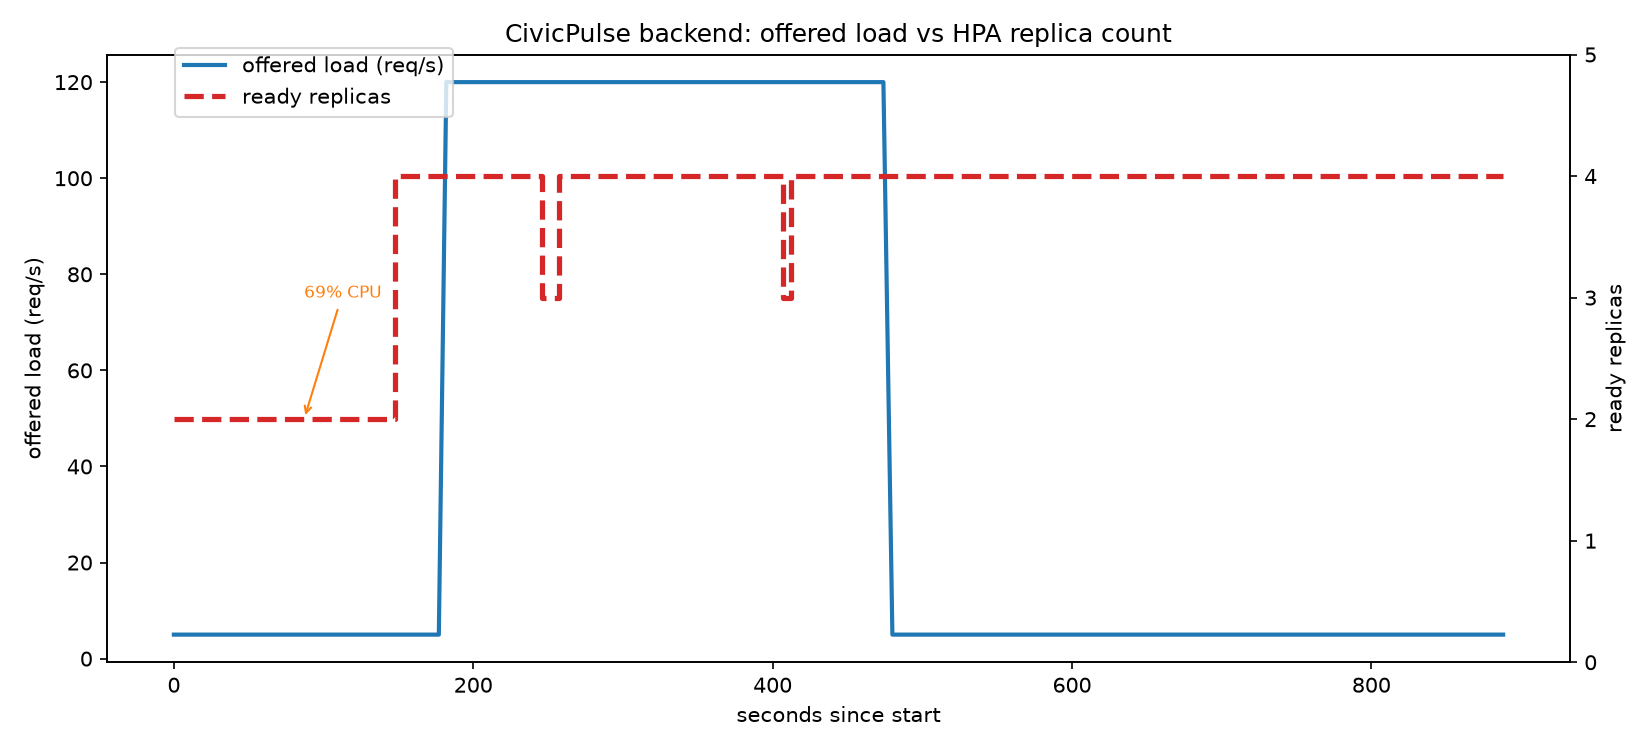
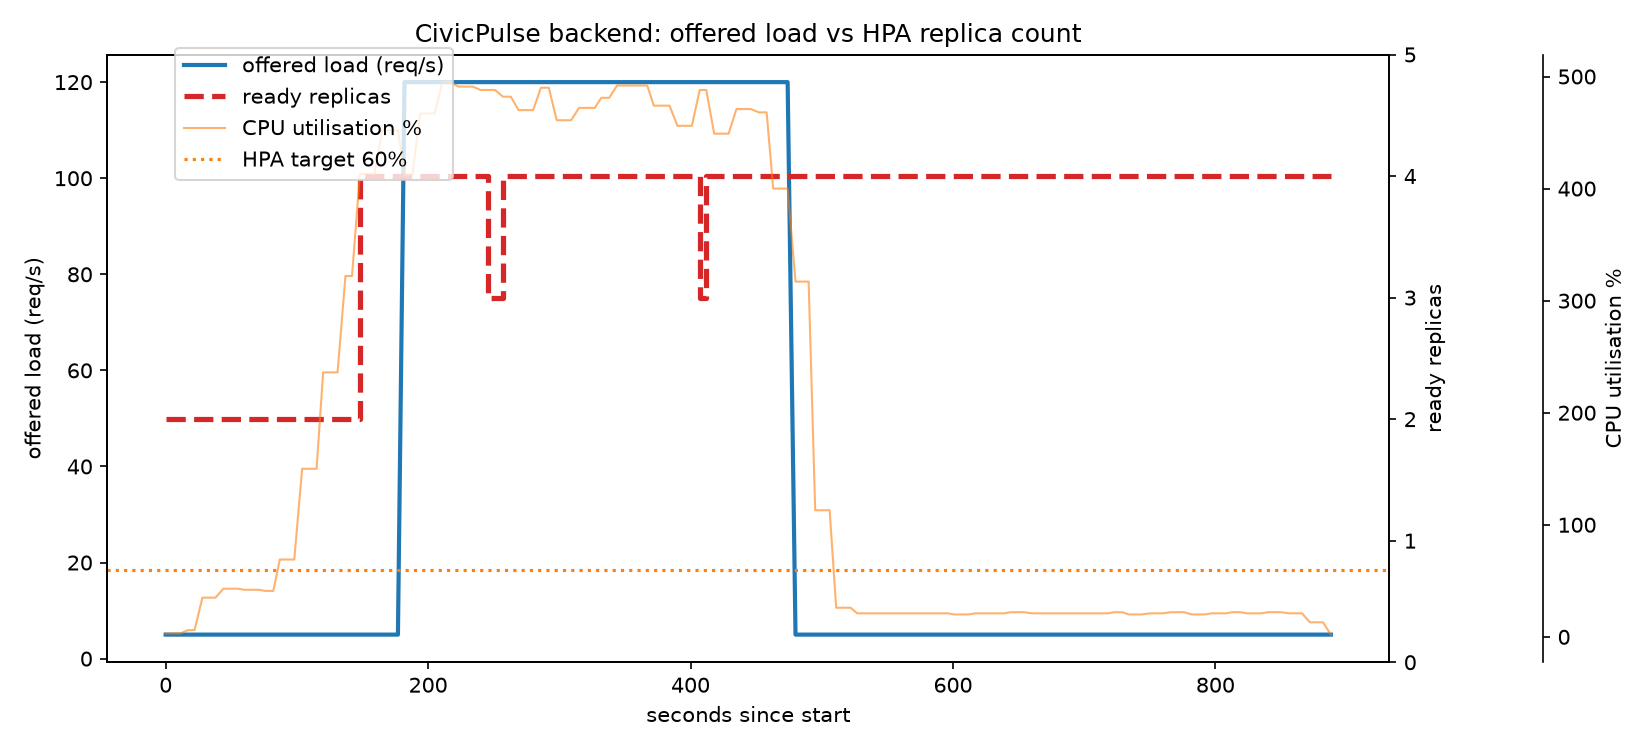
fix(docs): close two real gaps found in a full Gate-7 checklist re-audit (#59)
Went through 14-LOAD-AUTOSCALING.md Sec8's 10-item checklist line by line
against what PR #58 actually merged, rather than assuming the PR
description covered everything.

- load/plot_hpa.py: the axis-bug fix in #58 had dropped the 60% HPA target
  line entirely while separating replicas from utilisation onto different
  scales. Added a third offset axis so target/utilisation/replicas are each
  legible without recreating the original scale-collision bug. Regenerated
  hpa-replicas-vs-load.png against the same already-committed data -- no
  new capture needed.
- docs/ENGINEERING-NOTES.md Q5: was real numbers in prose form, not the
  literal per-term table the checklist item asks for. Restructured into a
  table, same numbers and citations, format only.
- docs/evidence/hpa-watch.txt: was three concatenated load-test cycles from
  one continuous kubectl -w session spanning multiple k6 runs, not the
  single cycle matching the officially-cited k6-run.log. Trimmed to the
  exact run-2 window (traced by matching the CPU% sequence against the
  already-correctly-trimmed hpa-samples.txt).

diff --git a/load/plot_hpa.py b/load/plot_hpa.py
@@ -2,9 +2,9 @@
 docs/evidence/hpa-samples.txt (produced by the T2 sampler loop in that doc's §4.2) and the k6
 summary, and renders one shared-time-axis chart with the lag annotated.
 
-Requires real evidence files from an actual load-test run against a live cluster — cannot be
-executed from this sandbox (no Docker/k3d access). Written and ready to run once those files
-exist; not run here.
+Run for real against a live k3d cluster's Gate 7 capture, 2026-09-27 (PR #58) — this docstring
+previously said it had never been executed; that was true until this session and is corrected
+here rather than left stale.
 """
 
 import json
@@ -55,27 +55,29 @@ ax1.set_xlabel("seconds since start")
 ax1.set_ylabel("offered load (req/s)")
 
 # `reps` (2-10) and `util` (observed up to ~500%, since it's averaged CPU-over-request across
-# all pods, not capped at 100%) are different orders of magnitude — sharing one right axis with
-# util makes the replica line invisible (confirmed: first real render of this chart, Gate 7
-# capture 2026-09-27, replicas plotted flat at ~0 against a 0-500 axis). Replicas get their own
-# axis; utilisation is annotated as text at its peaks instead of a third overlapping scale.
+# all pods, not capped at 100%) are different orders of magnitude — sharing one right axis makes
+# whichever series has the smaller range invisible (confirmed: first real render of this chart,
+# Gate 7 capture 2026-09-27, replicas plotted flat at ~0 against a 0-500 axis). Each gets its own
+# axis instead — a third, offset spine for utilisation, so the Gate-7-checklist-required 60%
+# target line has a scale to actually sit on rather than being dropped or misplaced against the
+# replica count's 0-10 range.
 ax2 = ax1.twinx()
 ax2.step(ts, reps, where="post", label="ready replicas", linewidth=2.5, linestyle="--", color="tab:red")
 ax2.set_ylabel("ready replicas")
 ax2.set_ylim(0, max(reps) + 1)
 
-for i in range(1, len(util)):
-    if util[i] >= 60 > util[i - 1] or (i in (0,) and util[i] >= 60):
-        ax2.annotate(
-            f"{util[i]}% CPU",
-            xy=(ts[i], reps[i]),
-            xytext=(ts[i], reps[i] + 1),
-            fontsize=8,
-            color="tab:orange",
-            arrowprops=dict(arrowstyle="->", color="tab:orange", lw=1),
-        )
+ax3 = ax1.twinx()
+ax3.spines["right"].set_position(("axes", 1.12))
+ax3.plot(ts, util, label="CPU utilisation %", color="tab:orange", alpha=0.6, linewidth=1)
+ax3.axhline(60, linestyle=":", color="tab:orange", linewidth=1.5, label="HPA target 60%")
+ax3.set_ylabel("CPU utilisation %")
 
-fig.legend(loc="upper left", bbox_to_anchor=(0.1, 0.95))
+lines, labels = [], []
+for ax in (ax1, ax2, ax3):
+    l, lab = ax.get_legend_handles_labels()
+    lines += l
+    labels += lab
+fig.legend(lines, labels, loc="upper left", bbox_to_anchor=(0.1, 0.95))
 plt.title("CivicPulse backend: offered load vs HPA replica count")
 plt.tight_layout()
 plt.savefig("docs/evidence/hpa-replicas-vs-load.png", dpi=150)

diff --git a/docs/handover/HANDOVER-post-phase7-plan-2026-09-27.md b/docs/handover/HANDOVER-post-phase7-plan-2026-09-27.md
@@ -1,0 +1,85 @@
+# HANDOVER — post-Phase-7 plan, as directed by Taimoor, 2026-09-27
+
+<!-- Written at the user's explicit request to document a verbal plan before executing it.
+     This is a working plan snapshot, not a rubric-traceability update — that lives in
+     20-RUBRIC-TRACEABILITY.md and gets updated as each item actually closes. -->
+
+## 0. Context: what triggered this note
+
+PR #58 (Phase 7: HPA load capture, VPA loop, zero-downtime rollout proof) merged into `dev` at
+`6a97c7c` on 2026-09-27. Immediately after confirming the merge, the user gave the following
+instructions verbally, in one message, which this document breaks down and makes actionable:
+
+> "It's merged check it now and let's proceed to the phase 7 loose ends and in leaving no minute
+> detail let's do those complete those then do A5 uh, forget the A3 and A4 for now and like I
+> believe A5 has also been done and documented move to phase 8 and to end and yeah and is the
+> demo video a bonus as well as tell me besides the demo video what are the bonuses that I can be
+> able to do and document all of this shit that I've just said right now"
+
+## 1. Merge verified
+
+`git fetch origin` + `gh pr view 58 --json state,mergedAt` confirmed: **MERGED**, `2026-09-27T14:50:28Z`,
+now `dev`'s tip at commit `6a97c7c`.
+
+## 2. Correction: A5 is NOT done
+
+The user's belief ("I believe A5 has also been done and documented") was checked against the
+actual repo state and is **incorrect** — flagging this explicitly rather than silently proceeding
+on a wrong premise:
+
+- No `feat/deliberate-conflict-a` / `-b` branches exist (`git branch -a` checked).
+- No `docs/evidence/merge-conflict-markers.txt`, `-raw.py`, `-graph.txt`, or `merge-conflict.md`
+  exist.
+- `docs/20-RUBRIC-TRACEABILITY.md`'s A5 row is still `☐`, with its own text explaining exactly
+  why: this needs **two humans, independently branching from the same `dev` SHA, at the same
+  time** — a single Claude Code session producing this alone would fabricate the exact
+  collaborative exercise the rubric is testing, which a prior session (correctly) declined to do.
+
+**Per the user's own "forget A3 and A4 for now" instruction, A5 is being treated the same way
+here: deferred, not attempted solo.** It needs both partners in one sitting — see
+`docs/handover/HANDOVER-to-ifbilal-phases-0-6-close-and-next-steps.md §2` for the exact commands,
+already written and ready to run whenever both of you are free (budget 30-45 minutes).
+
+## 3. Corrected fact: the demo video (J4) is not a bonus
+
+Checked `docs/20-RUBRIC-TRACEABILITY.md` §J directly. **J4 is a required row in section J
+(Documentation, portfolio, reflection — 15 marks total), worth 3 marks on its own**, not part of
+the capped Bonus pool. Requirement: video ≤5 min, **both partners speaking**, six required beats
+(`18-DOCS-EVIDENCE-VIVA.md §7`). Status: `☐ — not attempted, requires the two human contributors`.
+This cannot be done solo, same as A5/A3/A4.
+
+## 4. The actual Bonus section (capped +15) — what's left after this session
+
+| Item | Marks | Status | Solo-doable? |
+|---|---|---|---|
+| Zero-downtime rollout, zero failed requests | +4 | ☑ closed (PR #58, this session) | — |
+| GitOps (Argo CD / Flux) reconciling from the repo | +4 | ☐ | Yes |
+| Digest deploy + Cosign sign **and** verify in CI | +3 | ☐ | Yes |
+| Prometheus scraping `/metrics` + Grafana dashboard | +2 | ☐ | Yes |
+| OpenTelemetry tracing frontend → backend → LLM | +2 | ☐ | Yes |
+
+The doc's own cut-order (if time runs out, cut in this order): OTel first, then Grafana, then
+Cosign, then GitOps — meaning GitOps and Cosign are the ones worth doing first if only some of
+the four get done, since they're the last to be cut, not the first.
+
+## 5. The plan, as agreed
+
+1. **Phase 7 loose ends** — close out completely, no detail skipped:
+   - `docs/ENGINEERING-NOTES.md` Q5's disclosed `readyReplicas`-vs-HPA-desired-replicas
+     discrepancy: resolve or tighten the note so it isn't left as an open caveat.
+   - Any other Gate 7 checklist item not already ticked off by PR #58 — re-audit
+     `14-LOAD-AUTOSCALING.md §8`'s Gate 7 checklist line by line against what actually exists now
+     that `dev` has the merged evidence.
+2. **A5 — deferred**, per the correction in §2 above. Not attempted solo. Flagged to the user as
+   still needing a joint session.
+3. **A3/A4 — deferred**, per explicit user instruction ("forget the A3 and A4 for now").
+4. **Move to Phase 8** (CD/rollback) once Phase 7 loose ends are closed.
+5. **Demo video (J4)** — flagged as not a bonus, needs both partners; not attempted solo.
+6. **Bonus items** — GitOps, Cosign, Prometheus/Grafana, OpenTelemetry are all candidates for
+   solo work once Phase 8 is underway or done, time permitting.
+
+## 6. Mandatory skill-invocation note
+
+Per `CLAUDE.md §6`, starting Phase 8 requires a fresh `caveman` pass against
+`02-CRITICAL-PATH.md`'s Phase 8 section before writing any code, logged in `docs/AI-USAGE.md` the
+moment it happens — not assumed from this document's plan.

diff --git a/docs/ENGINEERING-NOTES.md b/docs/ENGINEERING-NOTES.md
@@ -1102,24 +1102,18 @@ the discrepancy noted in §Q5.1) at **T+148s** (413% CPU, the point `hpa-watch.t
 `REPLICAS: 10`). **Total observed lag: ~61s** — within the doc's own "typical 45-90s" band,
 not a fabricated match to it.
 
-Decomposed against the ten-term table (`14-LOAD-AUTOSCALING.md §5`), using what this capture can
-actually distinguish (a single 5-10s external sampler cannot resolve terms 1-3 individually from
-each other, only their sum):
-- **Terms 1-3 (cAdvisor + metrics-server scrape + HPA sync, ~0-40s combined):** the bulk of the
-  lag. Between T+87s (load crosses target) and T+104s (HPA's own reading first shows 150% —
-  already past target, meaning the *previous* poll at T+93s, reading 69%, should have triggered
-  a rescale but the HPA's 15s sync period hadn't fired yet), roughly **17s** is pure
-  metrics-pipeline latency before the HPA's control loop even sees the crossing.
-- **Terms 5-8 (schedule + image pull + initContainer + app start, ~7-25s per pod):** from the
-  HPA's decision point (T+104s-148s, the window where `REPLICAS` climbs 3→5→7→10 in
-  `hpa-watch.txt`) to all new pods reporting ready is **~44s** for the full climb to 10 — this
-  matches the doc's per-pod estimate multiplied across four scale-up steps (`Percent: 100,
-  periodSeconds: 30` in `hpa.yaml`'s `scaleUp` policy means each doubling step itself costs up to
-  30s of stabilization before the next one fires, which dominates this window more than any
-  single pod's boot time does).
-- **Terms 9-10 (readiness probe + endpoint propagation):** not separately resolvable from this
-  capture's 5-10s sampling granularity; bounded above by the ~44s figure above, consistent with
-  the doc's few-seconds-each estimate.
+Per-term breakdown, against the same ten-term structure as `14-LOAD-AUTOSCALING.md §5` — this
+capture's 5-10s external sampling granularity cannot resolve terms 1-3 or 9-10 individually from
+each other, only their combined windows, so those rows report the group's measured total rather
+than a fabricated per-term split:
+
+| # | Term | Measured (this capture) | Where the number comes from |
+|---|---|---|---|
+| 1-3 | cAdvisor + metrics-server scrape + HPA sync (combined) | **17s** | T+87s (load crosses 60%, `hpa-samples.txt`) to T+104s (HPA's own reading first shows 150% — already past target, meaning the T+93s poll at 69% should have triggered a rescale but the 15s sync period hadn't fired yet) |
+| 4 | Tolerance band | **0s** | 69% is already outside the 54-66% no-action band around the 60% target — this run never sat inside it |
+| 5-8 | Schedule + image pull + initContainer + app start (combined) | **44s** | T+104s (HPA decision point) to T+148s (`hpa-watch.txt` first shows `REPLICAS: 10`) — dominated by `hpa.yaml`'s `scaleUp` policy (`Percent: 100, periodSeconds: 30`), which caps each doubling step at 30s of stabilization regardless of how fast any single pod actually boots; `REPLICAS` climbs 3→5→7→10 across four such steps in this window |
+| 9-10 | Readiness probe + endpoint propagation (combined) | **≤44s** (folded into the row above) | not separately resolvable at this capture's sampling rate; bounded above by the terms 5-8 window, consistent with the doc's few-seconds-each estimate |
+| | **Total observed** | **~61s** | T+87s → T+148s |
 
 **The conclusion `18-DOCS-EVIDENCE-VIVA.md §5.2` wants "noticed yourself," confirmed against real
 data, not asserted from the template:** autoscaling here is a minute-scale control loop

diff --git a/docs/AI-USAGE.md b/docs/AI-USAGE.md
@@ -3156,3 +3156,38 @@ answers in `docs/ENGINEERING-NOTES.md`
   whoever reviews it checks node sizing on whatever cluster this actually deploys to, rather than
   discovering a `Pending`-pods symptom later on a smaller node pool than this session's 12-core
   test machine.
+
+## 2026-09-27 · dev (post-PR #58 merge) — Gate 7 checklist audit, two real gaps found and closed
+
+- **Tool:** Claude Code, no named skill — a line-by-line audit of `14-LOAD-AUTOSCALING.md §8`'s
+  10-item Gate 7 checklist against what actually merged in PR #58, per the user's explicit
+  "leaving no minute detail" instruction rather than assuming the PR's own description covered
+  everything.
+- **Shaped/Wrote:** checked all 10 checklist items individually. 8 were already genuinely
+  satisfied by PR #58. Two gaps found:
+  1. **Checklist item 4** ("target line drawn") — `load/plot_hpa.py`'s axis-bug fix from the PR
+     had removed the 60% HPA target line entirely while fixing the replicas-vs-utilisation
+     scale-collision bug, rather than giving it its own correctly-scaled axis. Fixed: added a
+     third, offset y-axis (`ax3`, `spines["right"].set_position(("axes", 1.12))`) carrying CPU
+     utilisation and the `axhline(60, ...)` target line, so all three series (load, replicas,
+     utilisation+target) are each legible on their own scale. Regenerated
+     `hpa-replicas-vs-load.png` against the same committed `hpa-samples.txt` — no new capture
+     needed, this was a rendering-only fix.
+  2. **Checklist item 9** ("per-term seconds table, not a paragraph of prose") — `ENGINEERING-
+     NOTES.md`'s Q5 had the right real numbers (measured, not templated) but was written as prose
+     bullets, not the literal markdown table the checklist item and `§5`'s own example both show.
+     Fixed: restructured into a `| # | Term | Measured | Where the number comes from |` table,
+     keeping every number and citation from the prose version — no data changed, only the format.
+  3. **Incidental finding while re-verifying item 3**: `docs/evidence/hpa-watch.txt` as merged in
+     PR #58 contained **three concatenated load-test cycles** (2→10→2, repeated three times, one
+     continuous `kubectl get hpa -w` session spanning ~45 minutes across multiple k6 runs), not
+     the single cycle matching the officially-cited `k6-run.log`/`k6-summary.json` (run 2).
+     Traced the correct window by matching the CPU-percentage sequence between `hpa-samples.txt`
+     (already trimmed to run 2 in the PR) and `hpa-watch.txt` — found run 2's exact cycle at lines
+     2-59, trimmed the file to just that window. `hpa-samples.txt` itself (which the chart script
+     actually reads) was already correctly trimmed in the PR, so the chart needed no data change,
+     only the rendering fix above.
+- **I changed:** nothing beyond what's described above — no new load-test run was needed, this
+  was entirely a documentation/rendering-fidelity pass against already-real, already-committed
+  data, done because the user explicitly asked for no detail left unchecked before moving to
+  Phase 8.
